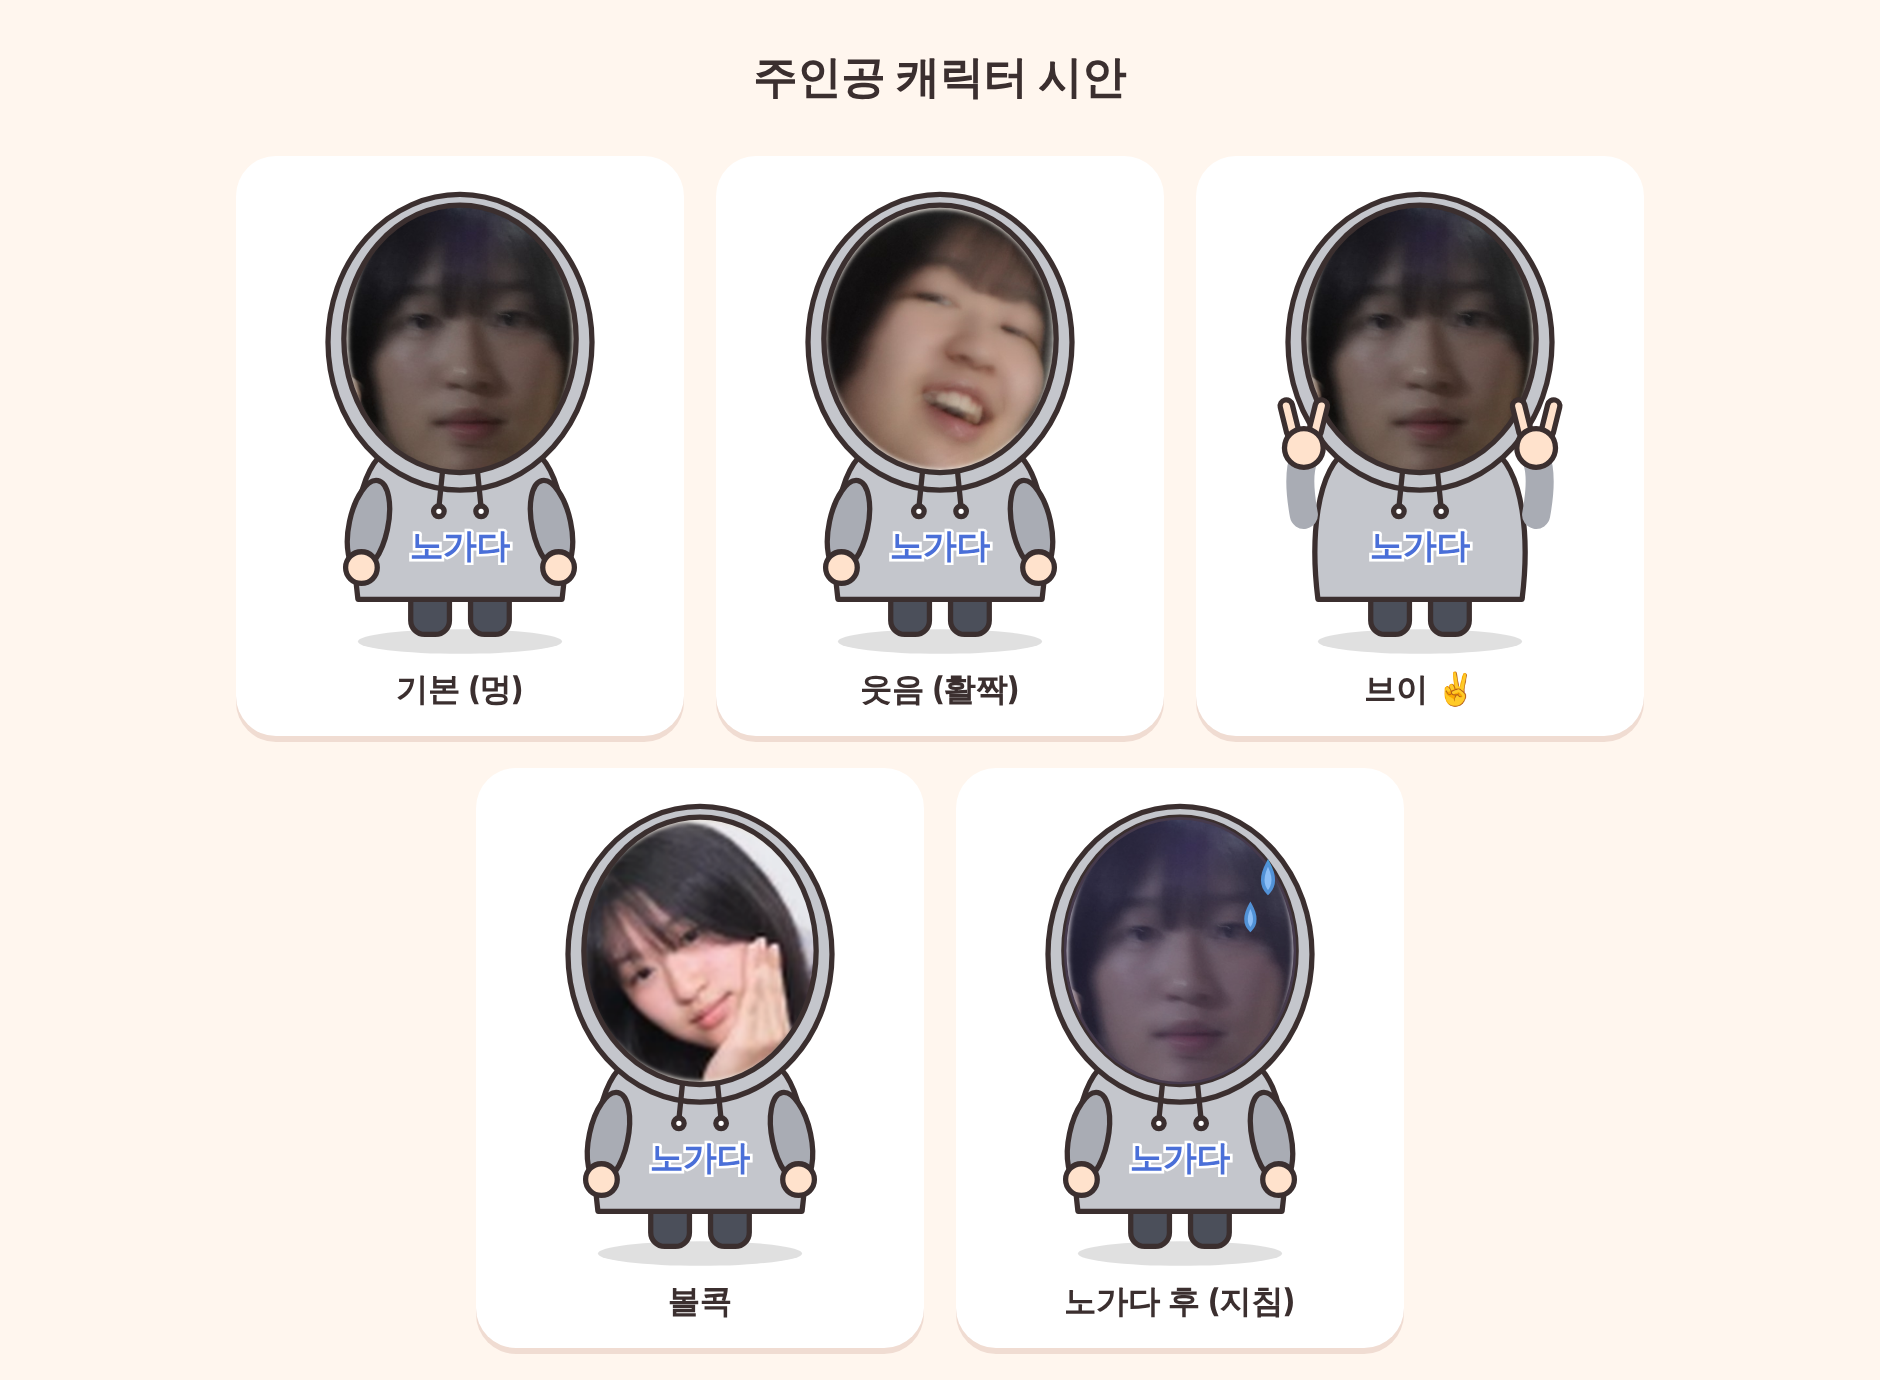
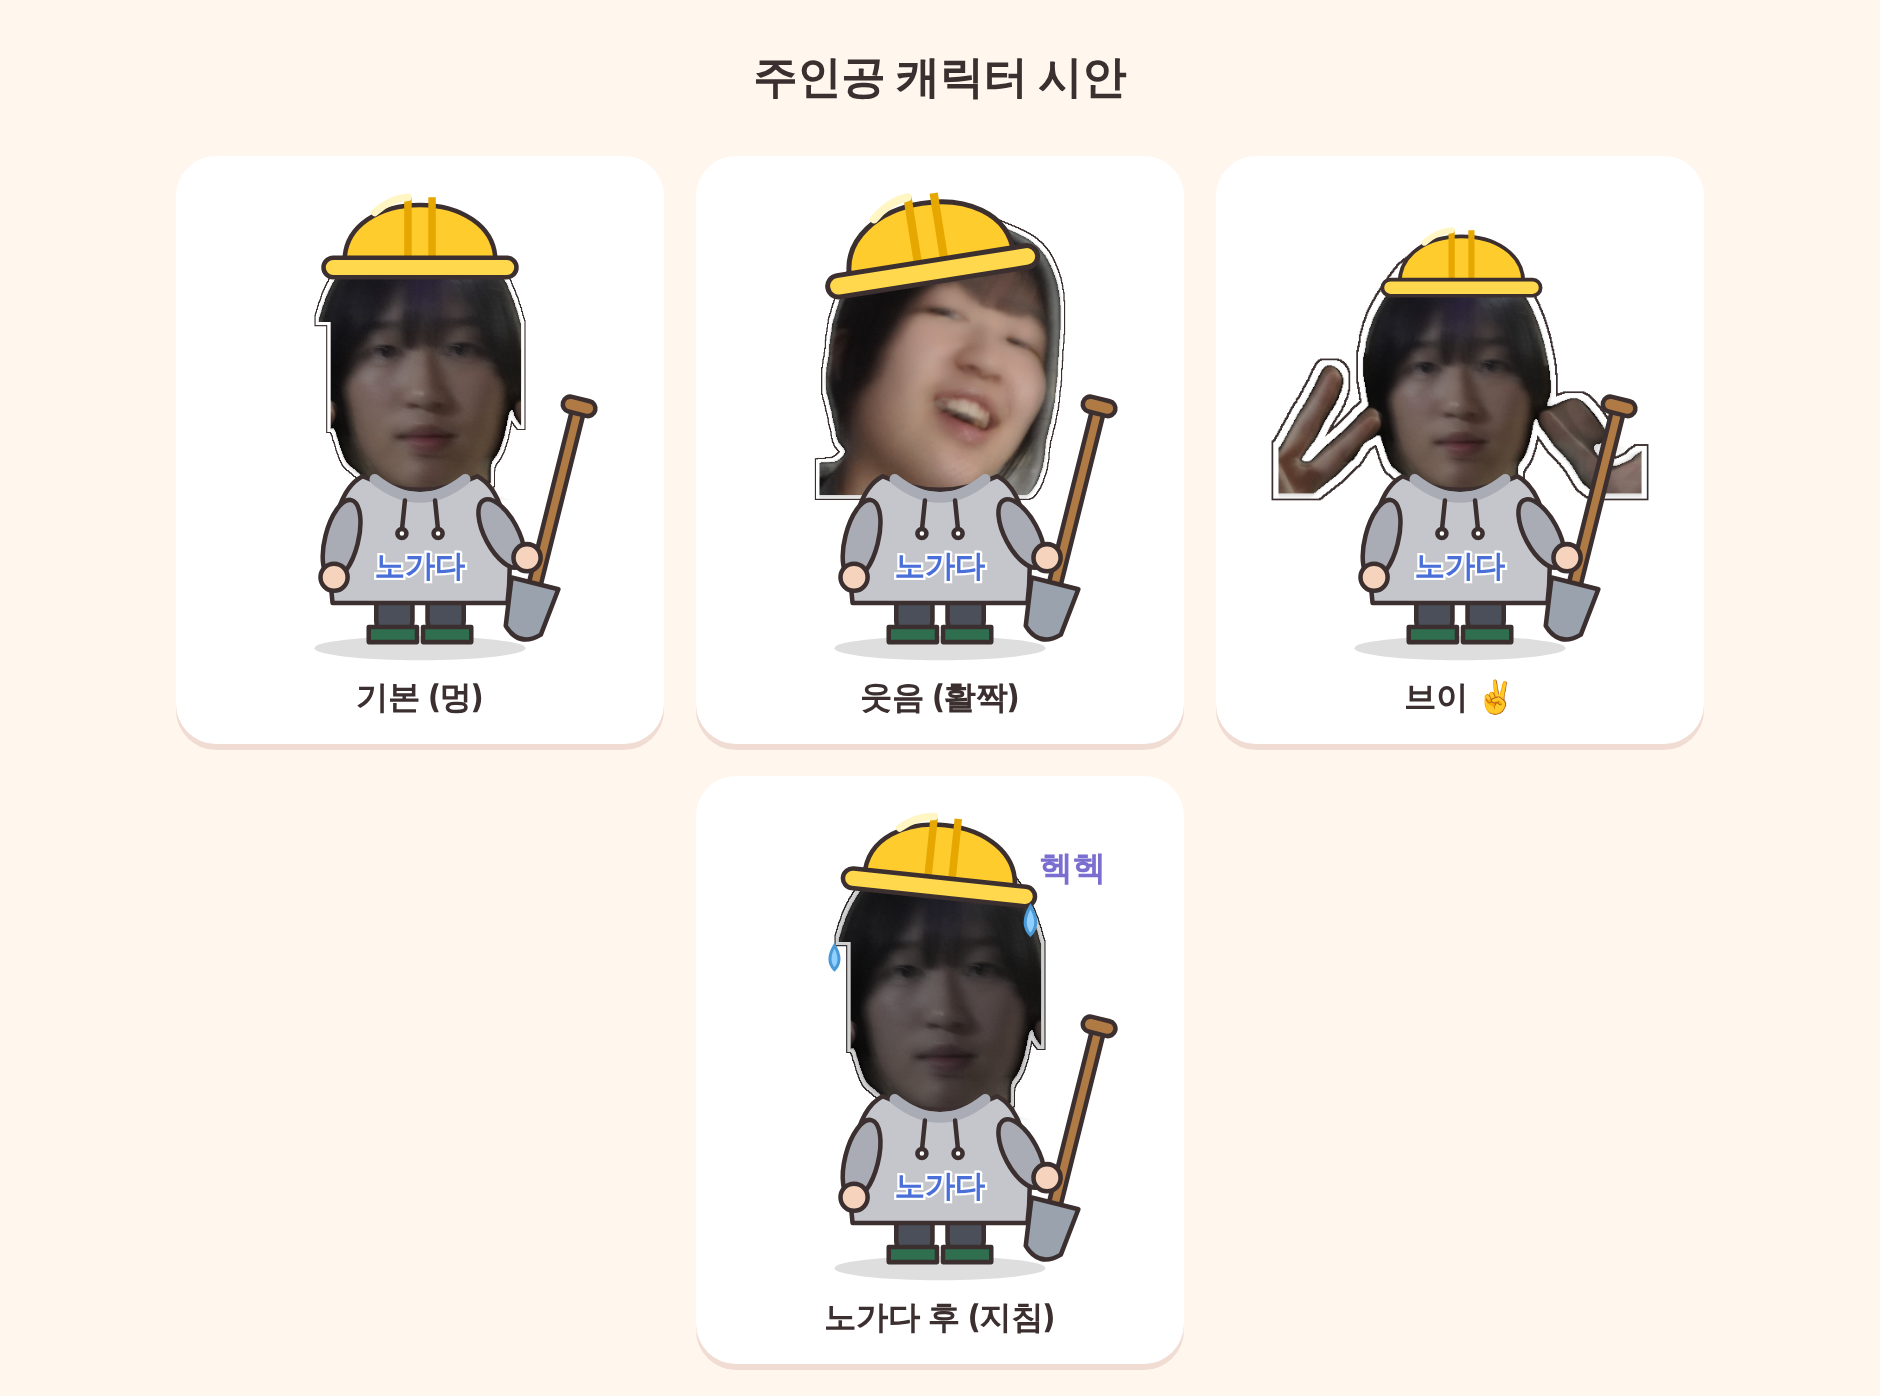
주인공을 사진 합성 캐릭터로 변경 (배경 제거 머리 + 안전모 + 삽)
Claude-Session: https://claude.ai/code/session_01XpyVsz82qWs5FUh393Zrju

diff --git a/character.js b/character.js
@@ -1,67 +1,71 @@
-// 주인공 캐릭터: 실제 얼굴 사진 + 귀여운 몸통 (SVG)
-// face: 'blank'(멍) | 'laugh'(활짝) | 'cute'(볼콕) | 'tired'(지침)
-// pose: 'stand' | 'peace'(브이)
-// imgBase: 이미지 폴더 경로 (기본 'img/')
-let __charId = 0;
-function characterSVG({ face = 'blank', pose = 'stand', imgBase = 'img/' } = {}) {
-  const id = 'c' + (++__charId);
+// 주인공 캐릭터: 실제 사진 머리(배경 제거) + 만화 몸통 합성
+// face: 'blank'(멍) | 'laugh'(활짝) | 'peace'(브이) | 'tired'(지침)
+// tool: true 면 삽을 듦
+function characterSVG({ face = 'blank', tool = true, hat = true, imgBase = 'img/' } = {}) {
   const L = '#3b2f2f';
-  const SKIN = '#ffe2cc';
+  const SKIN = '#f6d3bd';
   const HOOD = '#c4c6cc';
   const HOOD_D = '#a9acb4';
   const BLUE = '#4a6fd8';
   const s = `stroke="${L}" stroke-width="3" stroke-linejoin="round" stroke-linecap="round"`;
 
-  const file = { blank: 'face-blank.png', laugh: 'face-laugh.png', cute: 'face-cute.png', tired: 'face-blank.png' }[face];
-  // 머리(사진) 영역
-  const HX = 100, HY = 90, RX = 66, RY = 76;
+  // 머리 사진 배치 (가로 w, 세로 h, 아래 끝이 y=208 근처)
+  const HEADS = {
+    blank: { file: 'head-blank.png', w: 140, h: 191, hatX: 130, hatS: 1.0, tilt: 0 },
+    laugh: { file: 'head-laugh.png', w: 166, h: 192, hatX: 124, hatS: 1.1, tilt: -9 },
+    peace: { file: 'head-peace.png', w: 250, h: 171, hatX: 131, hatS: 0.82, tilt: 0 },
+    tired: { file: 'head-blank.png', w: 140, h: 191, hatX: 130, hatS: 1.0, tilt: 6 },
+  };
+  const H = HEADS[face] || HEADS.blank;
+  const bottom = 212;
+  const top = bottom - H.h;
+  const hatY = top + 30 * H.hatS;
 
-  let arms;
-  if (pose === 'peace') {
-    const hand = (x, flip) => `
-      <g transform="translate(${x} 150) scale(${flip} 1)">
-        <path d="M0 40 Q-4 18 0 8" fill="none" stroke="${HOOD_D}" stroke-width="16" stroke-linecap="round"/>
-        <rect x="-9" y="-26" width="7" height="22" rx="3.5" fill="${SKIN}" ${s} transform="rotate(-14 -5 -4)"/>
-        <rect x="2" y="-26" width="7" height="22" rx="3.5" fill="${SKIN}" ${s} transform="rotate(14 5 -4)"/>
-        <circle cx="0" cy="2" r="11" fill="${SKIN}" ${s}/>
-      </g>`;
-    arms = hand(34, 1) + hand(166, -1);
-  } else {
-    arms = `<ellipse cx="48" cy="196" rx="11" ry="26" fill="${HOOD_D}" ${s} transform="rotate(12 48 196)"/>
-            <ellipse cx="152" cy="196" rx="11" ry="26" fill="${HOOD_D}" ${s} transform="rotate(-12 152 196)"/>
-            <circle cx="44" cy="220" r="9" fill="${SKIN}" ${s}/>
-            <circle cx="156" cy="220" r="9" fill="${SKIN}" ${s}/>`;
-  }
+  const imgStyle = face === 'tired' ? 'filter:brightness(.82) saturate(.6) hue-rotate(-10deg)' : '';
 
-  const tired = face === 'tired'
-    ? `<path d="M150 40 q6 11 0 17 q-6 -6 0 -17Z" fill="#8fd0ff" stroke="#4a9ad8" stroke-width="2"/>
-       <path d="M140 64 q5 9 0 14 q-5 -5 0 -14Z" fill="#8fd0ff" stroke="#4a9ad8" stroke-width="2"/>
-       <rect x="${HX - RX}" y="${HY - RY}" width="${RX * 2}" height="${RY * 2}" fill="#7a6fd0" opacity=".18" clip-path="url(#${id})"/>`
-    : '';
+  const hatSVG = !hat ? '' : `
+    <g transform="translate(${H.hatX} ${hatY}) rotate(${H.tilt}) scale(${H.hatS})">
+      <path d="M-50 4 C-52 -48 52 -48 50 4 Z" fill="#ffcc2e" ${s}/>
+      <path d="M-8 -40 L-8 2 M8 -40 L8 2" stroke="#e6a800" stroke-width="5"/>
+      <rect x="-64" y="0" width="128" height="13" rx="6.5" fill="#ffd84d" ${s}/>
+      <path d="M-30 -30 q10 -9 22 -10" fill="none" stroke="#fff6c4" stroke-width="5" stroke-linecap="round"/>
+    </g>`;
 
-  return `<svg viewBox="0 0 200 270" xmlns="http://www.w3.org/2000/svg">
-    <defs><clipPath id="${id}"><ellipse cx="${HX}" cy="${HY}" rx="${RX}" ry="${RY}"/></clipPath></defs>
-    <ellipse cx="100" cy="262" rx="58" ry="7" fill="rgba(0,0,0,.12)"/>
-    <!-- 다리 -->
-    <rect x="72" y="228" width="22" height="30" rx="8" fill="#4b4f5a" ${s}/>
-    <rect x="106" y="228" width="22" height="30" rx="8" fill="#4b4f5a" ${s}/>
+  const shovel = !tool ? '' : `
+    <g transform="rotate(14 214 236)">
+      <rect x="210" y="150" width="8" height="122" rx="3" fill="#b07a45" ${s}/>
+      <rect x="203" y="142" width="22" height="10" rx="5" fill="#b07a45" ${s}/>
+      <path d="M198 268 L230 268 L226 300 Q214 312 202 300 Z" fill="#9aa3ad" ${s}/>
+    </g>`;
+
+  const sweat = face === 'tired' ? `
+    <path d="M190 70 q7 12 0 19 q-7 -7 0 -19Z" fill="#8fd0ff" stroke="#4a9ad8" stroke-width="2"/>
+    <path d="M60 96 q6 10 0 16 q-6 -6 0 -16Z" fill="#8fd0ff" stroke="#4a9ad8" stroke-width="2"/>
+    <text x="196" y="52" font-size="22" font-weight="900" fill="#7a6fd0" font-family="sans-serif">헥헥</text>` : '';
+
+  return `<svg viewBox="0 0 260 320" xmlns="http://www.w3.org/2000/svg">
+    <ellipse cx="130" cy="310" rx="70" ry="8" fill="rgba(0,0,0,.13)"/>
+    <!-- 다리 + 장화 -->
+    <rect x="101" y="270" width="24" height="30" rx="8" fill="#4b4f5a" ${s}/>
+    <rect x="135" y="270" width="24" height="30" rx="8" fill="#4b4f5a" ${s}/>
+    <path d="M96 296 h32 v10 h-32 Z M132 296 h32 v10 h-32 Z" fill="#2f6f4f" ${s}/>
+    <!-- 머리 (실제 사진) -->
+    <image href="${imgBase}${H.file}" x="${130 - H.w / 2}" y="${top}" width="${H.w}" height="${H.h}" style="${imgStyle}"/>
     <!-- 후드티 몸통 -->
-    <path d="M60 152 C40 164 38 206 42 238 L158 238 C162 206 160 164 140 152 Z" fill="${HOOD}" ${s}/>
-    <text x="100" y="214" text-anchor="middle" font-size="19" font-weight="900" fill="${BLUE}"
+    <path d="M92 196 C72 206 68 248 72 280 L188 280 C192 248 188 206 168 196 Q130 214 92 196 Z" fill="${HOOD}" ${s}/>
+    <path d="M100 198 Q130 222 160 198" fill="none" stroke="${HOOD_D}" stroke-width="7" stroke-linecap="round"/>
+    <path d="M120 212 L118 232 M140 212 L142 232" ${s} stroke-width="2.5"/>
+    <circle cx="118" cy="234" r="3" fill="#fff" ${s} stroke-width="2"/>
+    <circle cx="142" cy="234" r="3" fill="#fff" ${s} stroke-width="2"/>
+    <text x="130" y="262" text-anchor="middle" font-size="20" font-weight="900" fill="${BLUE}"
           stroke="#fff" stroke-width="3" paint-order="stroke" font-family="sans-serif">노가다</text>
-    ${pose === 'stand' ? arms : ''}
-    <!-- 후드 테두리 -->
-    <ellipse cx="${HX}" cy="${HY + 2}" rx="${RX + 9}" ry="${RY + 8}" fill="${HOOD}" ${s}/>
-    <!-- 얼굴 사진 -->
-    <ellipse cx="${HX}" cy="${HY}" rx="${RX}" ry="${RY}" fill="#e9e3dc"/>
-    <image href="${imgBase}${file}" x="${HX - RX}" y="${HY - RY}" width="${RX * 2}" height="${RY * 2}"
-           preserveAspectRatio="xMidYMid slice" clip-path="url(#${id})"/>
-    <ellipse cx="${HX}" cy="${HY}" rx="${RX}" ry="${RY}" fill="none" ${s}/>
-    <!-- 후드 끈 -->
-    <path d="M90 166 L88 186 M110 166 L112 186" ${s} stroke-width="2.5"/>
-    <circle cx="88" cy="188" r="3" fill="#fff" ${s} stroke-width="2"/>
-    <circle cx="112" cy="188" r="3" fill="#fff" ${s} stroke-width="2"/>
-    ${tired}
-    ${pose === 'peace' ? arms : ''}
+    <!-- 팔 -->
+    <ellipse cx="78" cy="238" rx="11" ry="27" fill="${HOOD_D}" ${s} transform="rotate(14 78 238)"/>
+    <circle cx="73" cy="263" r="9" fill="${SKIN}" ${s}/>
+    ${shovel}
+    <ellipse cx="184" cy="234" rx="11" ry="25" fill="${HOOD_D}" ${s} transform="rotate(-28 184 234)"/>
+    <circle cx="201" cy="250" r="9" fill="${SKIN}" ${s}/>
+    ${hatSVG}
+    ${sweat}
   </svg>`;
 }

diff --git a/character.html b/character.html
@@ -8,8 +8,8 @@
     body { margin: 0; background: #fff6ee; font-family: "Apple SD Gothic Neo", "Malgun Gothic", system-ui, sans-serif; color: #3b2f2f; }
     h1 { text-align: center; font-size: 22px; margin: 24px 0 8px; }
     .row { display: flex; flex-wrap: wrap; justify-content: center; gap: 16px; padding: 16px; }
-    figure { margin: 0; background: #fff; border-radius: 20px; padding: 12px; width: 200px; text-align: center; box-shadow: 0 3px 0 #f0dcd2; }
-    figure div { width: 176px; height: 238px; margin: 0 auto; }
+    figure { margin: 0; background: #fff; border-radius: 20px; padding: 12px; width: 220px; text-align: center; box-shadow: 0 3px 0 #f0dcd2; }
+    figure div { width: 196px; height: 242px; margin: 0 auto; }
     figure svg { width: 100%; height: 100%; }
     figcaption { margin-top: 6px; font-weight: 700; }
   </style>
@@ -20,11 +20,10 @@
   <script src="character.js"></script>
   <script>
     const list = [
-      ['기본 (멍)', { face: 'blank', pose: 'stand' }],
-      ['웃음 (활짝)', { face: 'laugh', pose: 'stand' }],
-      ['브이 ✌', { face: 'blank', pose: 'peace' }],
-      ['볼콕', { face: 'cute', pose: 'stand' }],
-      ['노가다 후 (지침)', { face: 'tired', pose: 'stand' }],
+      ['기본 (멍)', { face: 'blank' }],
+      ['웃음 (활짝)', { face: 'laugh' }],
+      ['브이 ✌', { face: 'peace' }],
+      ['노가다 후 (지침)', { face: 'tired' }],
     ];
     document.getElementById('row').innerHTML = list.map(([name, o]) =>
       `<figure><div>${characterSVG(o)}</div><figcaption>${name}</figcaption></figure>`).join('');
